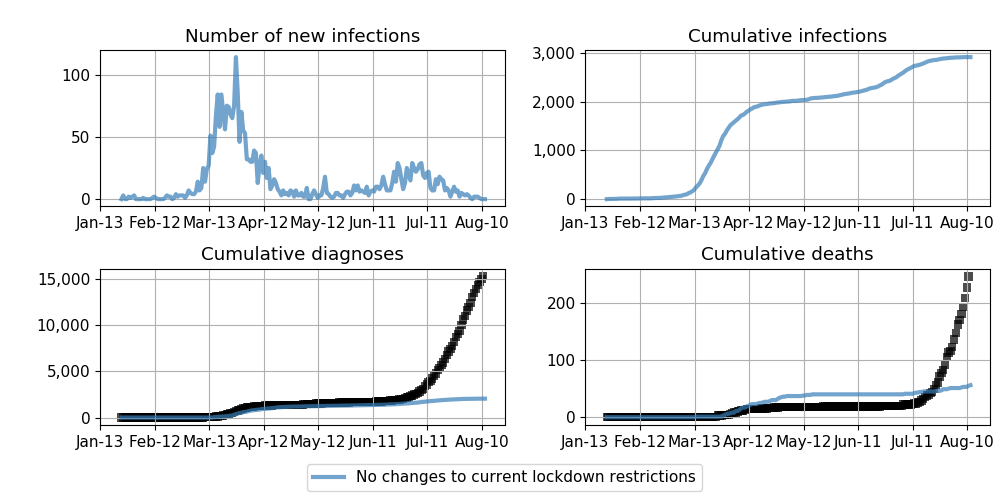
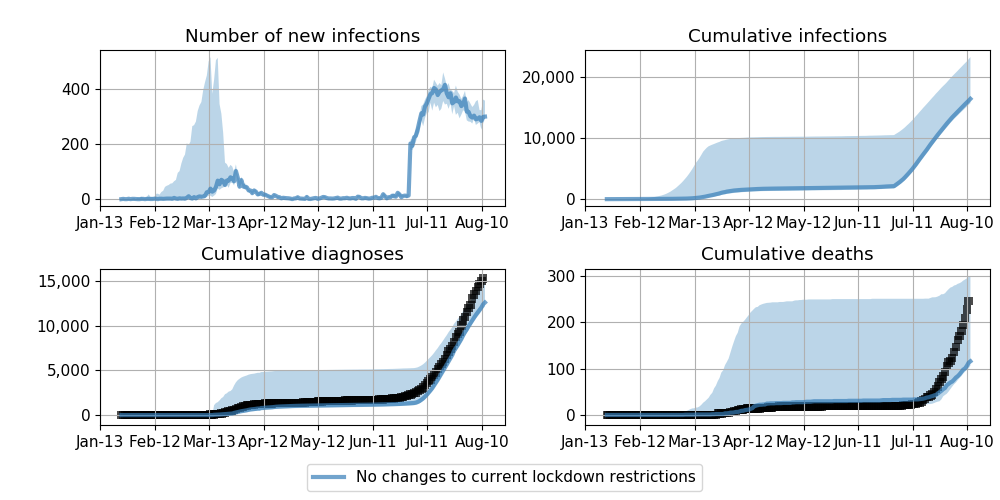
update NSW VIC

diff --git a/applications/Australia-FH/Victoria-run.py b/applications/Australia-FH/Victoria-run.py
@@ -13,13 +13,13 @@ if __name__ == "__main__":
     db_name = 'input_data_Australia_FH'
     epi_name = 'epi_data_Australia_FH'
 
-    # Victoriaecify layer keys to use
+    # Victoria specify layer keys to use
     all_lkeys = ['H', 'S', 'W', 'C']
     dynamic_lkeys = ['C']  # layers which update dynamically (subset of all_lkeys)
 
-    # country-Victoriaecific parameters
+    # country-Victoria specific parameters
     user_pars = {'Victoria': {'pop_size': int(10e4),
-                               'beta': 0.045,
+                               'beta': 0.027,
                                'n_days': 343,
                                'calibration_end': '2020-08-11'}}
 
@@ -34,7 +34,7 @@ if __name__ == "__main__":
     mid_aug = end_july + 15
     end_aug = mid_aug + 15
     mid_sep = mid_aug + 31
-    end_sep = mid_sep +15
+    end_sep = mid_sep + 15
     mid_oct = mid_sep + 30
     end_oct = mid_sep + 46
     start_nov = end_oct + 1
@@ -66,7 +66,7 @@ if __name__ == "__main__":
                            metapars=metapars,
                            all_lkeys=all_lkeys,
                            dynamic_lkeys=dynamic_lkeys)
-
+    
     # run the scenarios
     scens = ui.run_scens(scens)   
     scens['verbose'] = True

diff --git a/applications/Australia-FH/Victoria-calibrate.py b/applications/Australia-FH/Victoria-calibrate.py
@@ -16,13 +16,13 @@ if __name__ == "__main__":
 
     # country-specific parameters
     user_pars = {'Victoria': {'pop_size': int(10e4),
-                               'beta': 0.03,
+                               'beta': 0.027,
                                'n_days': 200,
                                'calibration_end': '2020-08-11'}}
 
     # the metapars for all countries and scenarios
-    metapars = {'n_runs': 1,
-                'noise': 0,
+    metapars = {'n_runs': 8,
+                'noise': 0.03,
                 'verbose': 1,
                 'rand_seed': 1}
     
